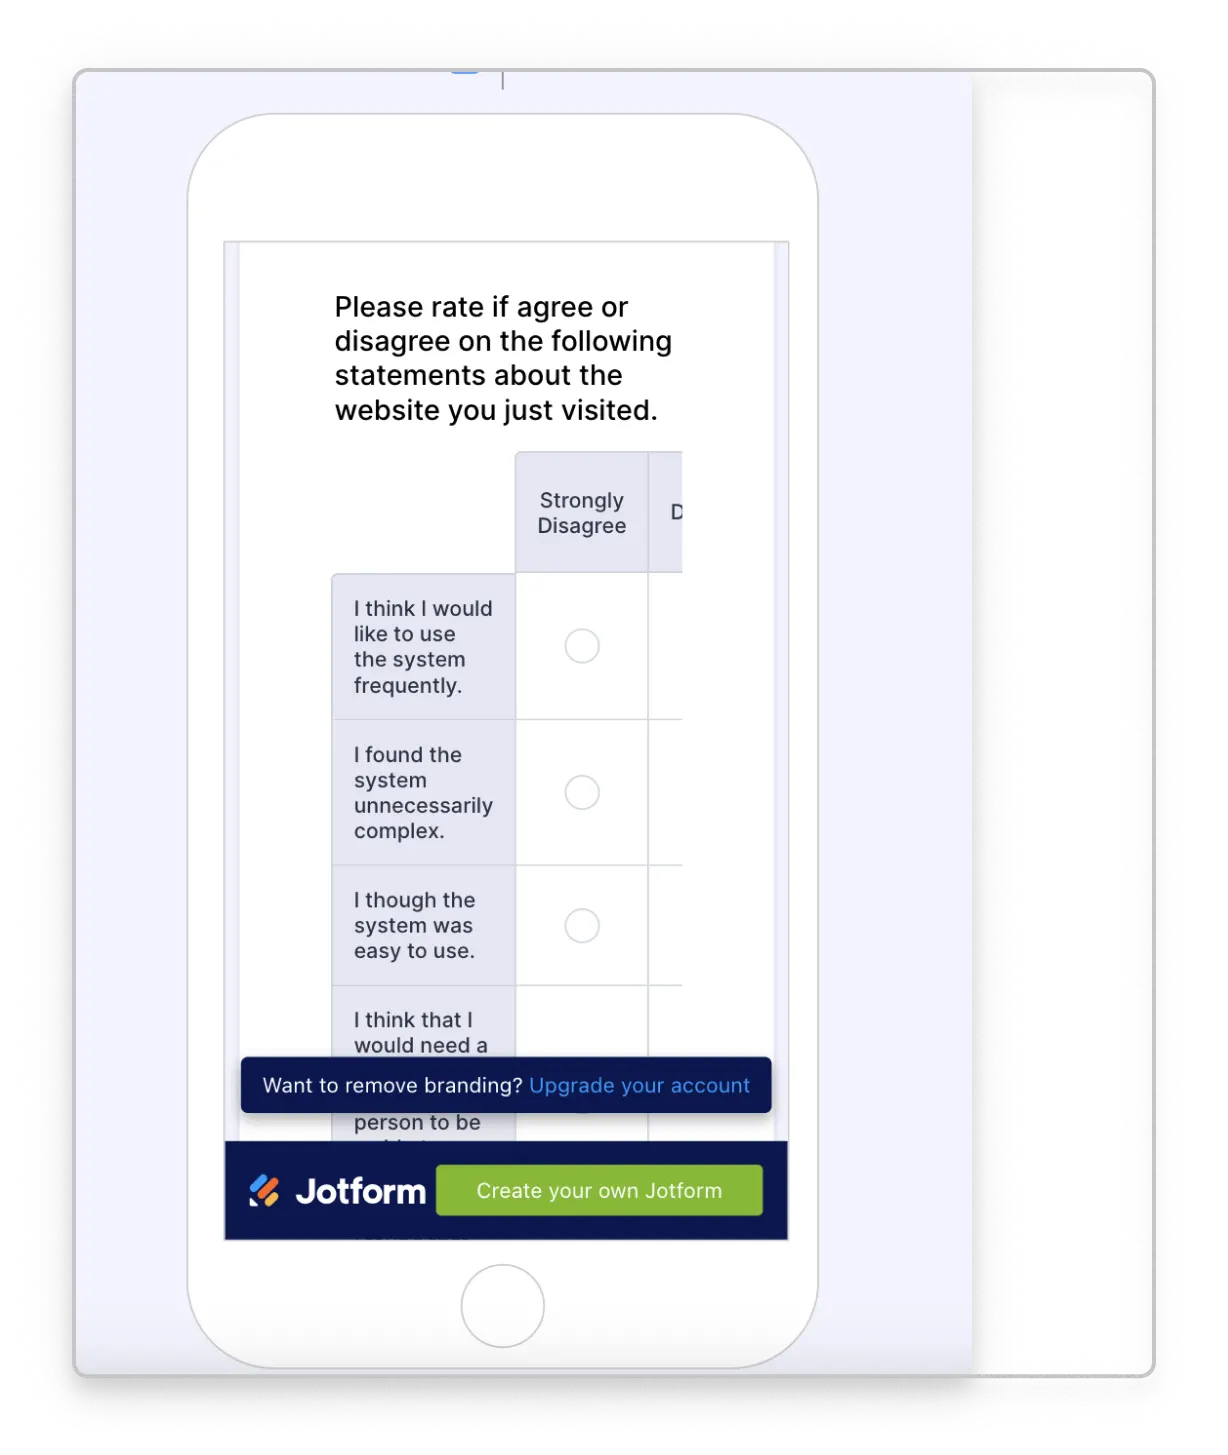
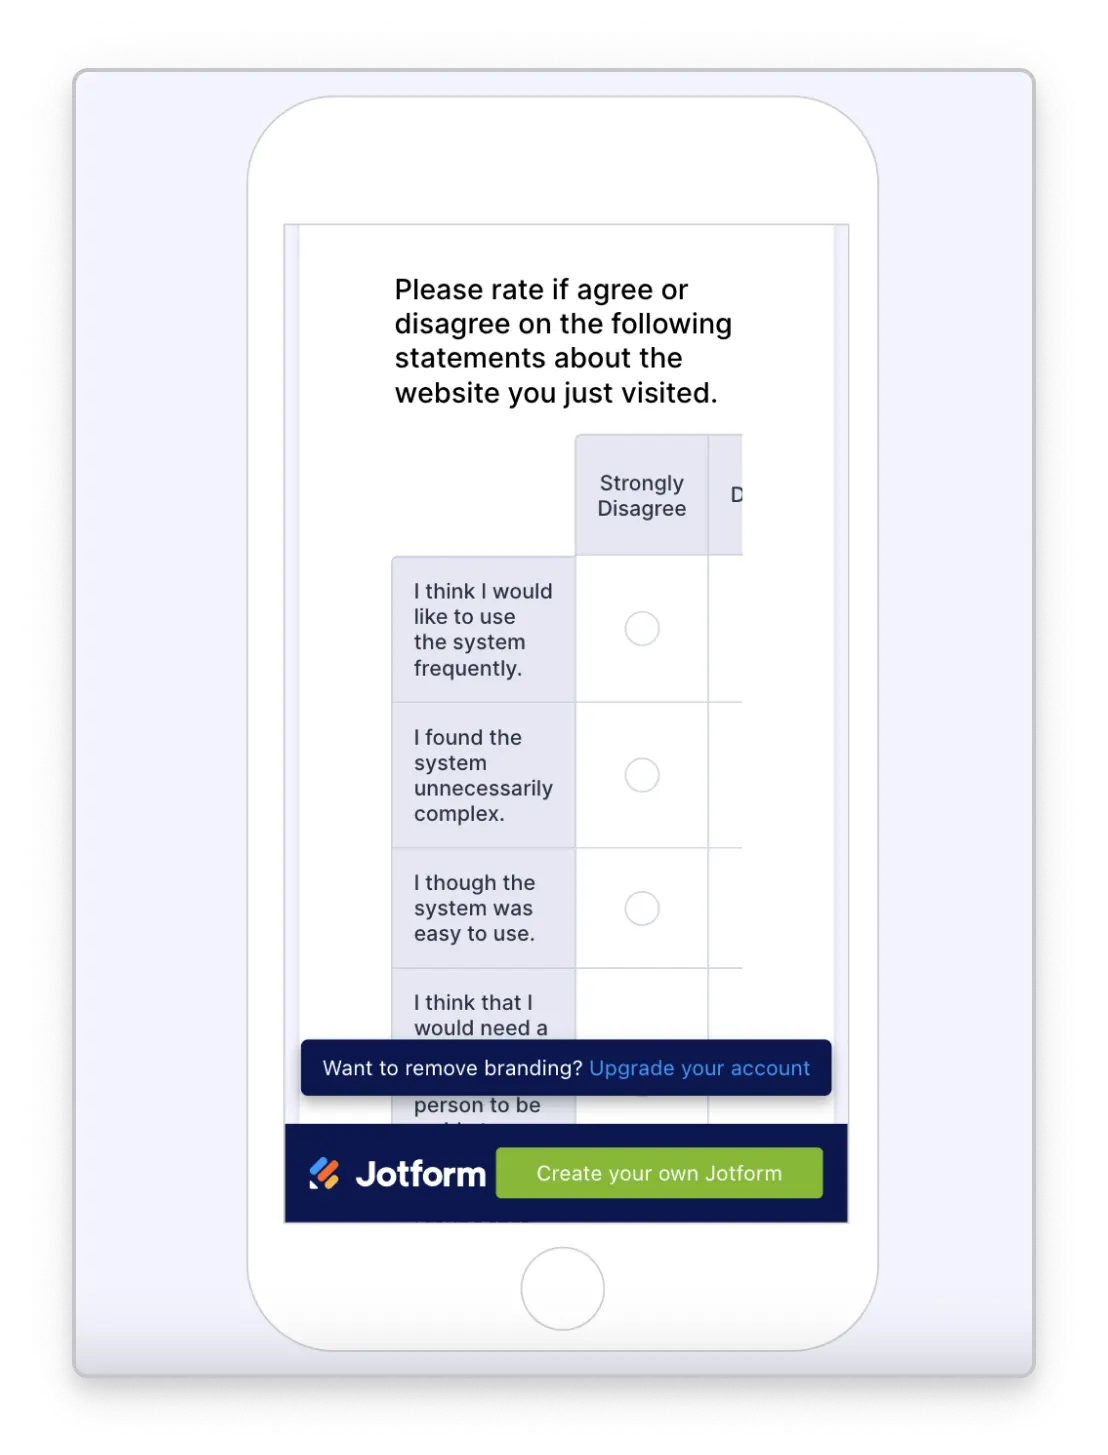
review

diff --git a/src/pages/Tete/Tete.tsx b/src/pages/Tete/Tete.tsx
@@ -63,107 +63,112 @@ export function Tete() {
           tableOfContent={tableOfContent}
         />
         <CaseContainer>
-          <Preview
-            desktop={
-              <PreviewOverlayContainer>
-                <Image src={desktop} height="364px" objectFit="scale-down" />
-                <CenteredDesktopVideo
+          <div ref={problemRef}>
+            <Preview
+              desktop={
+                <PreviewOverlayContainer>
+                  <Image src={desktop} height="364px" objectFit="scale-down" />
+                  <CenteredDesktopVideo
+                    controls
+                    src="https://s3.us-east-2.amazonaws.com/daria-in-design.com/video/teteatete-desktop.mp4"
+                    height="290px"
+                    width="490px"
+                  />
+                </PreviewOverlayContainer>
+              }
+              mobile={
+                <video
+                  css={{ borderRadius: '20px' }}
+                  height="475px"
+                  width="235px"
                   controls
-                  src="https://s3.us-east-2.amazonaws.com/daria-in-design.com/video/teteatete-desktop.mp4"
-                  height="290px"
-                  width="490px"
+                  src="https://s3.us-east-2.amazonaws.com/daria-in-design.com/video/teteMobileNew.mov"
                 />
-              </PreviewOverlayContainer>
-            }
-            mobile={
-              <video
-                css={{ borderRadius: '20px' }}
-                height="475px"
-                width="235px"
-                controls
-                src="https://s3.us-east-2.amazonaws.com/daria-in-design.com/video/teteMobileNew.mov"
-              />
-            }
-          />
-          {/* PROBLEM */}
-          <Stack gap="2rem" direction="column" css={{ marginBottom: '2.5rem' }}>
-            {/* Problem */}
-            <Stack gap="1rem" direction="column" ref={problemRef}>
-              <Typography variant="h3">{tableOfContent[0].title}</Typography>
-              <Typography>
-                Tete-A-Tete salon is a local hairsalon serving the Newton area
-                since 1999. The main purpose of having a website for Tete-A-Tete
-                is providing the information necessary for visiting the salon.
-                However, the surveys have shown that users often have
-                difficulties navigating the website and have no other choice but
-                to contact the salon in order to get info.
-              </Typography>
-            </Stack>
-            {/* Benchmark &  Solutions*/}
+              }
+            />
+            {/* PROBLEM */}
             <Stack
-              gap="1.5rem"
-              css={{
-                '@media (max-width: 800px)': { flexDirection: 'column' }
-              }}>
-              <Stack direction="column" css={{ flex: '1 1 50%' }}>
-                <Typography variant="h3" sx={{ marginBottom: '1rem' }}>
-                  Benchmark criteria
-                </Typography>
+              gap="2rem"
+              direction="column"
+              css={{ marginBottom: '2.5rem' }}>
+              {/* Problem */}
+              <Stack gap="1rem" direction="column">
+                <Typography variant="h3">{tableOfContent[0].title}</Typography>
                 <Typography>
-                  After redesigning the website we expect Tete-A-Tete salon to
-                  have:
+                  Tete-A-Tete salon is a local hairsalon serving the Newton area
+                  since 1999. The main purpose of having a website for
+                  Tete-A-Tete is providing the information necessary for
+                  visiting the salon. However, the surveys have shown that users
+                  often have difficulties navigating the website and have no
+                  other choice but to contact the salon in order to get info.
                 </Typography>
+              </Stack>
+              {/* Benchmark &  Solutions*/}
+              <Stack
+                gap="1.5rem"
+                css={{
+                  '@media (max-width: 800px)': { flexDirection: 'column' }
+                }}>
+                <Stack direction="column" css={{ flex: '1 1 50%' }}>
+                  <Typography variant="h3" sx={{ marginBottom: '1rem' }}>
+                    Benchmark criteria
+                  </Typography>
+                  <Typography>
+                    After redesigning the website we expect Tete-A-Tete salon to
+                    have:
+                  </Typography>
+                  <List>
+                    <List.Item>
+                      at least %50 more first-time appointments in a book;
+                    </List.Item>
+                    <List.Item>
+                      up to %80 less information inquiry calls;
+                    </List.Item>
+                    <List.Item>
+                      at least %70 of clients’ trust in competency of stylists.
+                    </List.Item>
+                  </List>
+                </Stack>
+                <Stack direction="column" css={{ flex: '1 1 50%' }}>
+                  <Typography variant="h3" sx={{ marginBottom: '1rem' }}>
+                    Solutions
+                  </Typography>
+                  <List>
+                    <List.Item>
+                      Change information architecture of the website.
+                    </List.Item>
+                    <List.Item>
+                      Eliminate distractions and unnecessary data.
+                    </List.Item>
+                    <List.Item>
+                      Chunk and logically group the information.
+                    </List.Item>
+                    <List.Item>
+                      Provide lacking information based on user’s insights.
+                    </List.Item>
+                  </List>
+                </Stack>
+              </Stack>
+              {/* Outcomes */}
+              <OutcomesContainer gap="1rem" direction="column">
+                <Typography variant="h3">Outcomes</Typography>
                 <List>
                   <List.Item>
-                    at least %50 more first-time appointments in a book;
+                    The updated design was well received within Tete-A-Tete
+                    company.
                   </List.Item>
                   <List.Item>
-                    up to %80 less information inquiry calls;
+                    It increased communication within the company.
                   </List.Item>
                   <List.Item>
-                    at least %70 of clients’ trust in competency of stylists.
+                    It inspired stylists to document their best works in order
+                    to showcase their skills and expertise.
                   </List.Item>
                 </List>
-              </Stack>
-              <Stack direction="column" css={{ flex: '1 1 50%' }}>
-                <Typography variant="h3" sx={{ marginBottom: '1rem' }}>
-                  Solutions
-                </Typography>
-                <List>
-                  <List.Item>
-                    Change information architecture of the website.
-                  </List.Item>
-                  <List.Item>
-                    Eliminate distractions and unnecessary data.
-                  </List.Item>
-                  <List.Item>
-                    Chunk and logically group the information.
-                  </List.Item>
-                  <List.Item>
-                    Provide lacking information based on user’s insights.
-                  </List.Item>
-                </List>
-              </Stack>
+                <div />
+              </OutcomesContainer>
             </Stack>
-            {/* Outcomes */}
-            <OutcomesContainer gap="1rem" direction="column">
-              <Typography variant="h3">Outcomes</Typography>
-              <List>
-                <List.Item>
-                  The updated design was well received within Tete-A-Tete
-                  company.
-                </List.Item>
-                <List.Item>
-                  It increased communication within the company.
-                </List.Item>
-                <List.Item>
-                  It inspired stylists to document their best works in order to
-                  showcase their skills and expertise.
-                </List.Item>
-              </List>
-              <div />
-            </OutcomesContainer>
-          </Stack>
+          </div>
           {/* KEYS ACTIVITIES */}
           <KeyActivities
             title={tableOfContent[1].title}

diff --git a/src/components/ProgressTracker/components/Content.tsx b/src/components/ProgressTracker/components/Content.tsx
@@ -1,6 +1,7 @@
 import { TableOfContentItem, TableOfContentList } from './styles';
 
-const HEADER_OFFSET = 80; // Offset for sticky header on mobile
+const MOBILE_HEADER_OFFSET = 100;
+const DESKTOP_HEADER_OFFSET = 20;
 
 type Props = {
   tableOfContent: {
@@ -16,10 +17,27 @@ export function Content({ tableOfContent, activeTitle, handleClose }: Props) {
       const isMobile = window.innerWidth <= 1100;
       if (isMobile) {
         const elementPosition = ref.current.getBoundingClientRect().top;
-        const offsetPosition = elementPosition + window.scrollY - HEADER_OFFSET;
+        const offsetPosition =
+          elementPosition + window.scrollY - MOBILE_HEADER_OFFSET;
         window.scrollTo({ top: offsetPosition, behavior: 'smooth' });
       } else {
-        ref.current.scrollIntoView({ behavior: 'smooth', block: 'start' });
+        // On desktop, scrolling happens inside the CaseContainer, not the window
+        const scrollableContainer = ref.current.closest(
+          '[data-scroll-container]'
+        );
+        if (scrollableContainer) {
+          const containerRect = scrollableContainer.getBoundingClientRect();
+          const elementRect = ref.current.getBoundingClientRect();
+          const offsetPosition =
+            elementRect.top -
+            containerRect.top +
+            scrollableContainer.scrollTop -
+            DESKTOP_HEADER_OFFSET;
+          scrollableContainer.scrollTo({
+            top: offsetPosition,
+            behavior: 'smooth'
+          });
+        }
       }
     }
   };

diff --git a/src/components/ViewNext/styles.ts b/src/components/ViewNext/styles.ts
@@ -14,6 +14,7 @@ export const CardContainer = styled.div(({ theme }) => ({
   overflow: 'hidden',
   width: theme.utility.pxToRem(CARD_WIDTH - 2),
   flexShrink: 0,
+  justifyContent: 'space-between',
 
   '@media (max-width: 400px)': {
     width: theme.utility.pxToRem(CARD_WIDTH_MOBILE - 2)
@@ -44,7 +45,8 @@ export const BottomContainer = styled.div(({ theme }) => ({
 
 export const TopContainer = styled.div(({ theme }) => ({
   display: 'flex',
-  padding: `${theme.utility.pxToRem(30)} ${theme.utility.pxToRem(50)}`
+  padding: `${theme.utility.pxToRem(30)} ${theme.utility.pxToRem(50)}`,
+  height: theme.utility.pxToRem(120)
 }));
 
 export const CarouselWrapper = styled.div({

diff --git a/src/pages/LikertScale/LikertScale.tsx b/src/pages/LikertScale/LikertScale.tsx
@@ -202,12 +202,12 @@ export function LikertScale() {
               <Image
                 src={res7}
                 canEnlarge
-                containerStyle={{ maxHeight: '500px', margin: '-16px' }}
+                containerStyle={{ maxHeight: '500px', margin: '-4px' }}
               />
               <Image
                 src={res8}
                 canEnlarge
-                containerStyle={{ maxHeight: '500px', margin: '-16px' }}
+                containerStyle={{ maxHeight: '500px', margin: '-4px' }}
               />
             </Stack>
           </ImageContainer>

diff --git a/src/components/CaseContainer/CaseContainer.tsx b/src/components/CaseContainer/CaseContainer.tsx
@@ -8,7 +8,7 @@ export function CaseContainer({
   header?: React.ReactNode;
 }) {
   return (
-    <Container>
+    <Container data-scroll-container>
       {header}
       <ContentWrapper>{children}</ContentWrapper>
     </Container>
